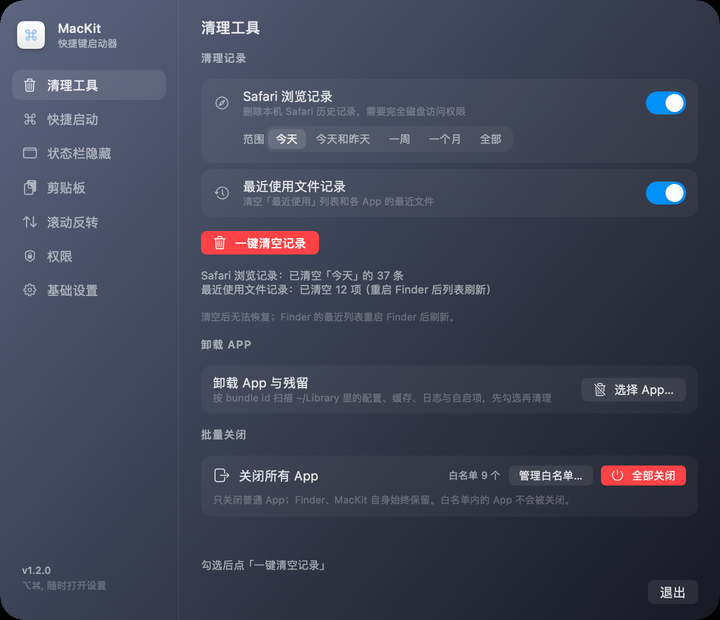
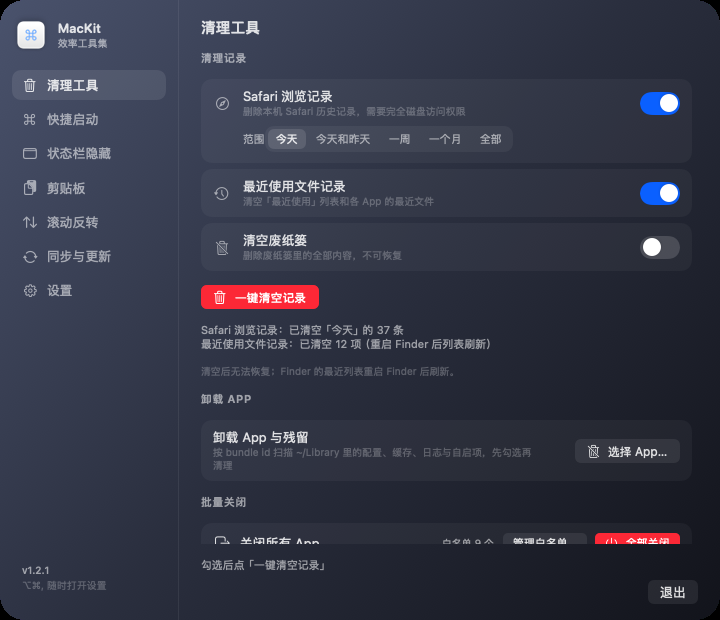
一键清理增加「清空废纸篓」选项
- 清理记录卡片新增第三个开关，勾选后清理时一并清空 ~/.Trash（默认关闭，记忆选择）
- 确认弹窗按勾选项动态列出将清理的内容；只勾废纸篓时也允许执行
- 清理工具页改为可滚动，避免新增一行后内容溢出
- 新增 --trash-test：在临时目录验证清空逻辑
- 版本 1.2.1（build 34）

diff --git a/Sources/main.swift b/Sources/main.swift
@@ -352,6 +352,14 @@ enum Preferences {
     private static let quitWhitelistKey = "quitAllWhitelist"
 
     /// 一键关闭所有 App 时豁免的 bundle id / 路径
+    private static let emptyTrashKey = "emptyTrashOnClean"
+
+    /// 一键清理时是否顺带清空废纸篓
+    static var emptyTrashOnClean: Bool {
+        get { UserDefaults.standard.bool(forKey: emptyTrashKey) }
+        set { UserDefaults.standard.set(newValue, forKey: emptyTrashKey) }
+    }
+
     private static let syncHotkeysKey = "syncHotkeys"
     private static let syncSidebarOrderKey = "syncSidebarOrder"
     private static let syncQuitWhitelistKey = "syncQuitWhitelistKey"
@@ -623,7 +631,27 @@ enum RecordCleaner {
         return (count, nil)
     }
 
-    static func clear(safariHistory: Bool, recentFiles: Bool, range: HistoryRange) -> Result {
+    /// 清空 ~/.Trash 里的内容（不删除废纸篓目录本身）
+    static func emptyTrashContents(in directory: URL? = nil) -> (deleted: Int, failed: Int) {
+        let fm = FileManager.default
+        let trash = directory ?? fm.homeDirectoryForCurrentUser.appendingPathComponent(".Trash", isDirectory: true)
+        guard let items = try? fm.contentsOfDirectory(at: trash, includingPropertiesForKeys: nil) else {
+            return (0, 0)
+        }
+        var deleted = 0
+        var failed = 0
+        for item in items {
+            do {
+                try fm.removeItem(at: item)
+                deleted += 1
+            } catch {
+                failed += 1
+            }
+        }
+        return (deleted, failed)
+    }
+
+    static func clear(safariHistory: Bool, recentFiles: Bool, emptyTrash: Bool, range: HistoryRange) -> Result {
         var lines: [String] = []
         var needsFDA = false
 
@@ -647,6 +675,17 @@ enum RecordCleaner {
                 } else {
                     lines.append("最近使用文件记录：没有可清空的记录")
                 }
+            }
+        }
+
+        if emptyTrash {
+            let outcome = emptyTrashContents()
+            if outcome.deleted == 0 && outcome.failed == 0 {
+                lines.append("废纸篓：本来就是空的")
+            } else if outcome.failed > 0 {
+                lines.append("废纸篓：已清空 \(outcome.deleted) 项，\(outcome.failed) 项删除失败")
+            } else {
+                lines.append("废纸篓：已清空 \(outcome.deleted) 项")
             }
         }
 
@@ -1141,14 +1180,26 @@ final class MacKitModel: ObservableObject {
     @Published var clearSafariHistory: Bool = true
     @Published var historyRange: HistoryRange = .today
     @Published var clearRecentFiles: Bool = true
+    @Published var emptyTrash: Bool = Preferences.emptyTrashOnClean {
+        didSet { Preferences.emptyTrashOnClean = emptyTrash }
+    }
     @Published var toolsStatus: String = ""
     @Published var toolsNeedsFullDiskAccess: Bool = false
     @Published var toolsLastRun: Date?
     @Published var showQuitSafariConfirm: Bool = false
 
+    var clearConfirmMessage: String {
+        var parts: [String] = []
+        if clearSafariHistory { parts.append("Safari 浏览记录（\(historyRange.title)）") }
+        if clearRecentFiles { parts.append("最近使用文件记录") }
+        if emptyTrash { parts.append("废纸篓（不可恢复）") }
+        guard !parts.isEmpty else { return "先勾选要清理的选项。" }
+        return "将清理：" + parts.joined(separator: "、") + "。清空后无法恢复。"
+    }
+
     /// 点「清空」后的入口：Safari 在跑就先问要不要退
     func requestClearRecords() {
-        guard clearSafariHistory || clearRecentFiles else {
+        guard clearSafariHistory || clearRecentFiles || emptyTrash else {
             toolsStatus = "先勾选要清理的选项"
             return
         }
@@ -1169,13 +1220,14 @@ final class MacKitModel: ObservableObject {
     }
 
     func clearSelectedRecords() {
-        guard clearSafariHistory || clearRecentFiles else {
+        guard clearSafariHistory || clearRecentFiles || emptyTrash else {
             toolsStatus = "先勾选要清理的选项"
             return
         }
         let result = RecordCleaner.clear(
             safariHistory: clearSafariHistory,
             recentFiles: clearRecentFiles,
+            emptyTrash: emptyTrash,
             range: historyRange
         )
         toolsStatus = result.message
@@ -1292,7 +1344,7 @@ struct SettingsView: View {
             Button("清空", role: .destructive) { model.requestClearRecords() }
             Button("取消", role: .cancel) {}
         } message: {
-            Text("Safari 浏览记录和最近使用文件记录，清空后无法恢复。")
+            Text(model.clearConfirmMessage)
         }
 
     }
@@ -1416,9 +1468,15 @@ struct SettingsView: View {
                 }
                 .frame(maxWidth: .infinity, maxHeight: .infinity)
                 .clipped()
+            } else if page == .tools {
+                ScrollView(.vertical, showsIndicators: true) {
+                    toolsPage.padding(.trailing, 6).padding(.bottom, 8)
+                }
+                .frame(maxWidth: .infinity, maxHeight: .infinity)
+                .clipped()
             } else {
                 switch page {
-                case .tools: toolsPage
+                case .tools: EmptyView()
                 case .launcher: launcherPage
                 case .menuBar: menuBarPage
                 case .clipboard: EmptyView()
@@ -1788,6 +1846,12 @@ struct SettingsView: View {
                     symbol: "clock.arrow.circlepath",
                     isOn: $model.clearRecentFiles
                 )
+                toolRow(
+                    "清空废纸篓",
+                    subtitle: "删除废纸篓里的全部内容，不可恢复",
+                    symbol: "trash.slash",
+                    isOn: $model.emptyTrash
+                )
             }
 
             HStack {
@@ -1799,7 +1863,7 @@ struct SettingsView: View {
                 }
                 .buttonStyle(.borderedProminent)
                 .tint(.red)
-                .disabled(!model.clearSafariHistory && !model.clearRecentFiles)
+                .disabled(!model.clearSafariHistory && !model.clearRecentFiles && !model.emptyTrash)
 
                 Spacer()
             }
@@ -4302,7 +4366,7 @@ func renderSnapshot(to path: String, page: SettingsPage = .launcher) -> Never {
         )
         .clipShape(RoundedRectangle(cornerRadius: 26, style: .continuous))
 
-    if page == .clipboard || page == .settings {
+    if page == .clipboard || page == .settings || page == .tools {
         // ImageRenderer 不支持原生滚动区域，改为 HostingView 离屏渲染。
         let host = NSHostingView(rootView: view)
         host.frame = NSRect(x: 0, y: 0, width: 720, height: 620)
@@ -4444,6 +4508,27 @@ func runOCRTranslateTest(_ path: String) -> Never {
         RunLoop.current.run(until: Date().addingTimeInterval(0.1))
     }
     exit(0)
+}
+
+// MARK: - 废纸篓清理自检（--trash-test，用临时目录验证）
+
+func runTrashTest() -> Never {
+    let fm = FileManager.default
+    let dir = fm.temporaryDirectory.appendingPathComponent("mackit-trash-test", isDirectory: true)
+    try? fm.removeItem(at: dir)
+    try? fm.createDirectory(at: dir, withIntermediateDirectories: true)
+    for name in ["a.txt", "b.txt"] {
+        try? "x".write(to: dir.appendingPathComponent(name), atomically: true, encoding: .utf8)
+    }
+    try? fm.createDirectory(at: dir.appendingPathComponent("sub"), withIntermediateDirectories: true)
+    try? "y".write(to: dir.appendingPathComponent("sub/c.txt"), atomically: true, encoding: .utf8)
+
+    let before = (try? fm.contentsOfDirectory(at: dir, includingPropertiesForKeys: nil))?.count ?? 0
+    let result = RecordCleaner.emptyTrashContents(in: dir)
+    let after = (try? fm.contentsOfDirectory(at: dir, includingPropertiesForKeys: nil))?.count ?? 0
+    print("测试目录：清理前 \(before) 项，删除 \(result.deleted) 项、失败 \(result.failed) 项，剩余 \(after) 项")
+    try? fm.removeItem(at: dir)
+    exit(after == 0 && result.failed == 0 ? 0 : 1)
 }
 
 // MARK: - OCR 结果窗口自检（--ocr-window-test <png>，会短暂弹出结果窗口）
@@ -4620,6 +4705,7 @@ if let index = CommandLine.arguments.firstIndex(of: "--ocr-translate-test"), Com
     if #available(macOS 15.0, *) { runOCRTranslateTest(CommandLine.arguments[index + 1]) }
     exit(0)
 }
+if CommandLine.arguments.contains("--trash-test") { runTrashTest() }
 if let index = CommandLine.arguments.firstIndex(of: "--ocr-window-test"), CommandLine.arguments.count > index + 1 {
     runOCRWindowTest(CommandLine.arguments[index + 1])
 }

diff --git a/README.md b/README.md
@@ -134,7 +134,7 @@ macOS 27 上隐藏是**按 App 生效**的：一个 App 有多个图标会一起
 
 **清理工具**（默认页）：
 
-- Safari 浏览记录、最近使用文件记录两个开关，决定「一键清空记录」清哪些
+- Safari 浏览记录、最近使用文件记录、**清空废纸篓** 三个开关，决定「一键清空记录」清哪些；确认弹窗会逐项列出将要清理的内容
 - Safari 那一行带范围选择：**今天**（今天 0 点起）、**今天和昨天**、**一周**（7 天前 0 点起）、**一个月**、**全部**
 - 按范围清历史是打开 `History.db` 用 sqlite3 删 `history_visits` 里 `visit_time` 落在范围内的行，再把因此变空的 `history_items` 清掉；选「全部」则直接删库文件
 - 一键清空记录：二次确认后执行，结果显示在页面上
